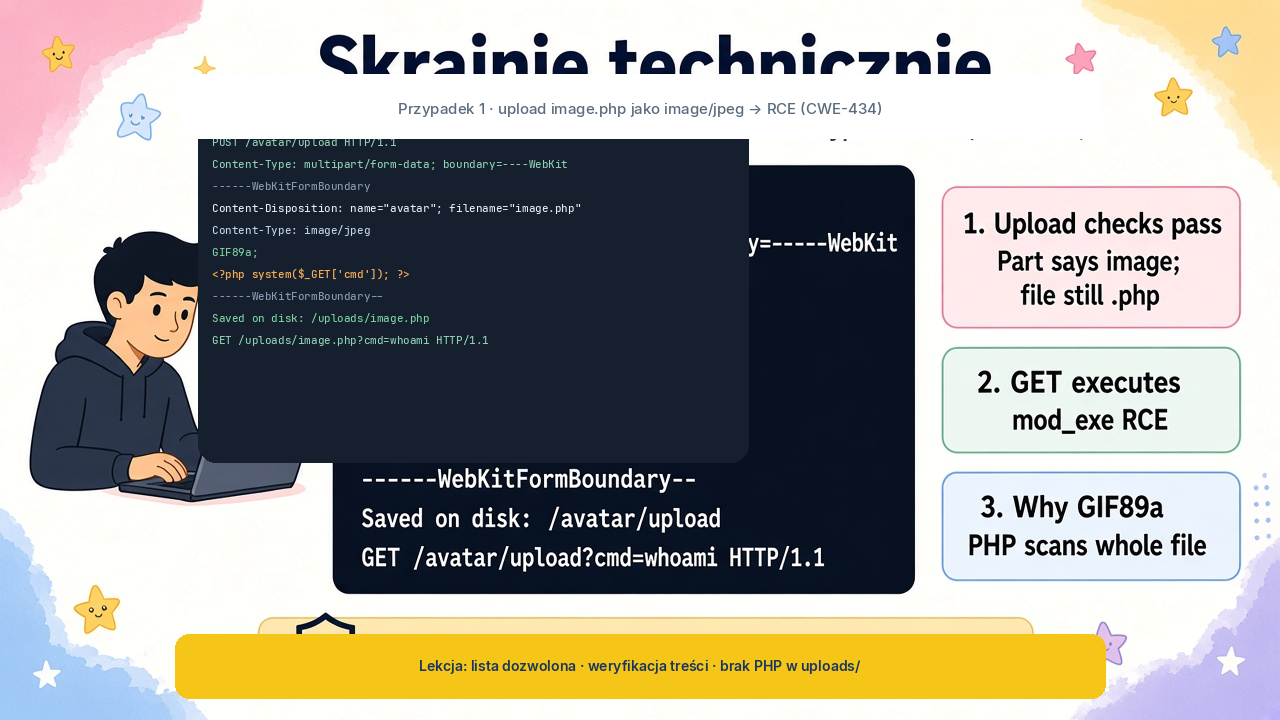
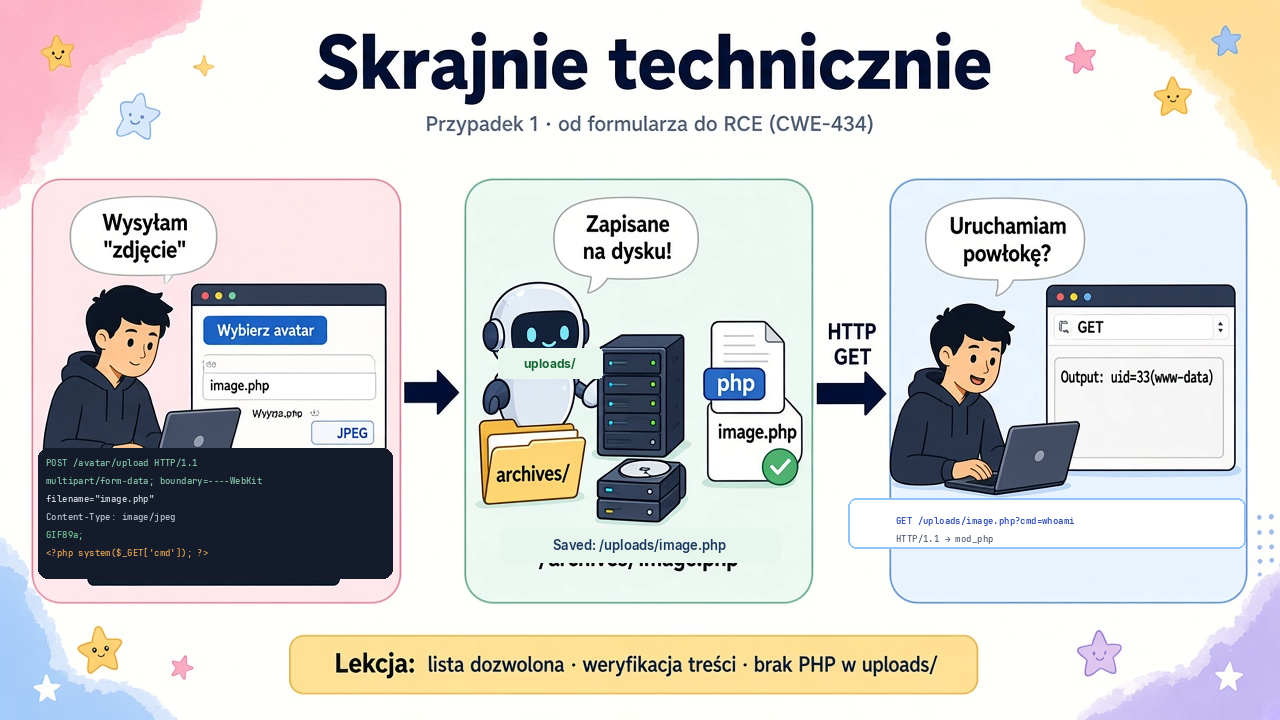
Hist-01: illustrated 3-step upload → disk → GET story slide

diff --git a/FileUpload/presentation/historical-cases/README.md b/FileUpload/presentation/historical-cases/README.md
@@ -29,7 +29,7 @@ Each case has a PNG in [`illustrations/`](illustrations/). Case **#1** uses **tw
    - **Change the shop** (defacement, scam page, malware for visitors)
    - **Pivot** — use your server to attack others (spam, bots, mining)
 
-**Technical slide:** [`hist-01-php-shell-technical.png`](illustrations/hist-01-php-shell-technical.png) (deck) or [`hist-01-php-shell-technical-720p.png`](illustrations/hist-01-php-shell-technical-720p.png) — **ten sam pipeline co** [`png-slides/`](../png-slides/) (watercolor deck): **obraz z generatora** + referencja slajdu XSS; tytuł **Skrajnie technicznie**; HTTP w panelu po angielsku (dokładny monospace tylko na ciemnym „terminalu” — modele obrazu gubią długi HTTP).
+**Technical slide (story):** [`hist-01-php-shell-technical-720p.png`](illustrations/hist-01-php-shell-technical-720p.png) — **3 kroki wizualnie:** (1) user + formularz upload i **body** POST (`image/jpeg`, `GIF89a`, PHP), (2) serwer / **zapis na dysku** `uploads/image.php`, (3) user **GET** → `mod_php`. Ludziki, chmurki, kolory jak deck XSS; dokładny HTTP w terminalikach po wygenerowaniu obrazu.
 
 **HTTP (what the slide shows):**
 
